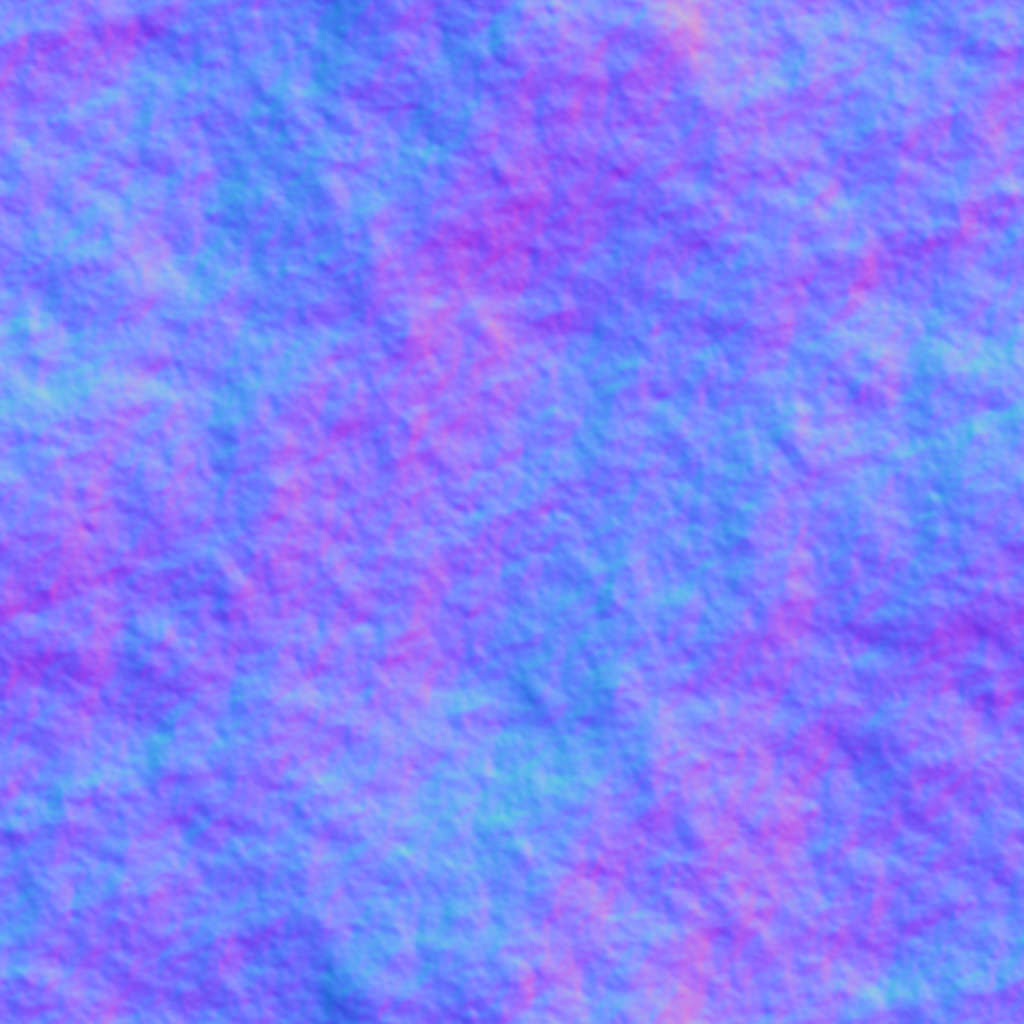
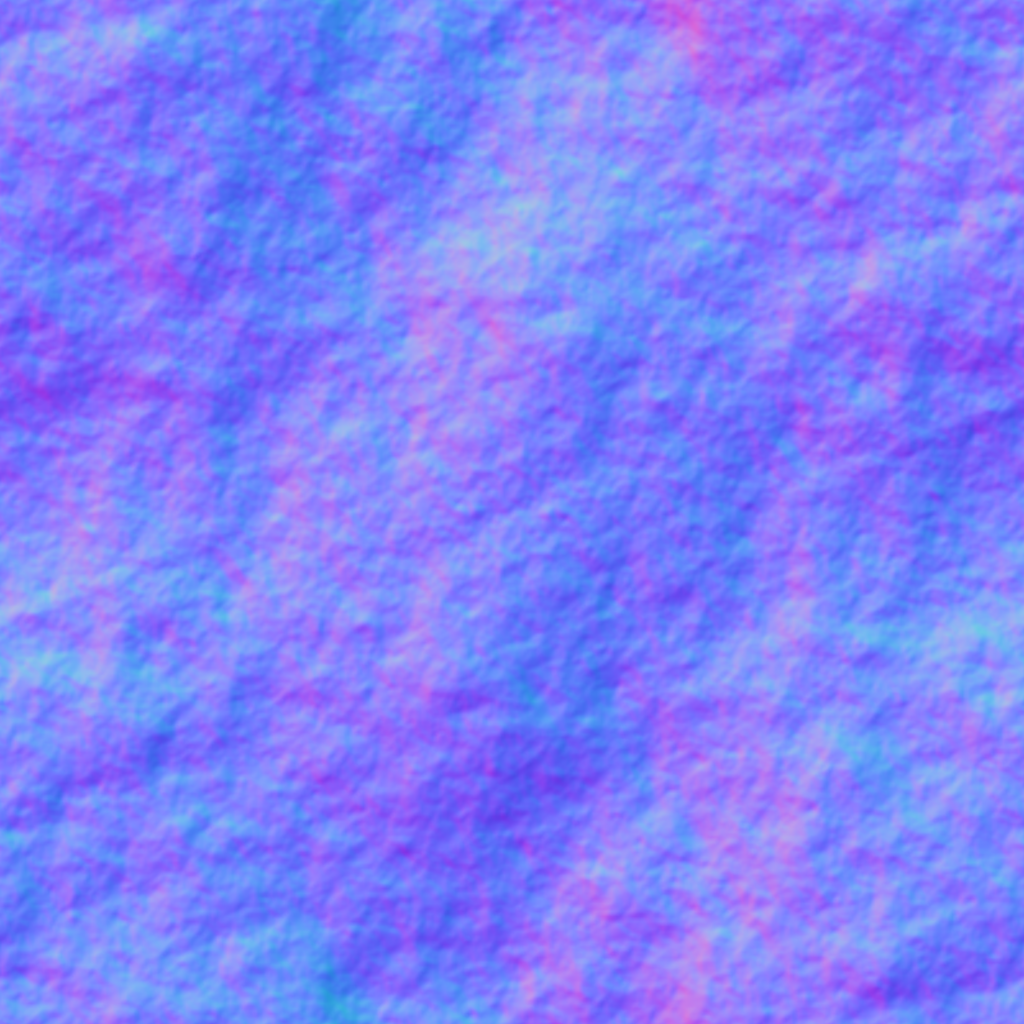
add receiving shadows to sea shader animate water shadow map

diff --git a/samples/bsp/src/GameState.cpp b/samples/bsp/src/GameState.cpp
@@ -64,9 +64,10 @@ namespace
 }
 
 GameState::GameState(cro::StateStack& stack, cro::State::Context context)
-    : cro::State(stack, context),
-    m_gameScene(context.appInstance.getMessageBus()),
-    m_uiScene(context.appInstance.getMessageBus())
+    : cro::State    (stack, context),
+    m_gameScene     (context.appInstance.getMessageBus()),
+    m_uiScene       (context.appInstance.getMessageBus()),
+    m_waterIndex    (0)
 {
     context.mainWindow.loadResources([this]() {
         addSystems();
@@ -199,13 +200,29 @@ void GameState::loadAssets()
     //m_gameScene.setCubemap(m_environmentMap);
     m_gameScene.setCubemap("assets/images/cubemap/sky.ccm");
     m_gameScene.getSunlight().getComponent<cro::Transform>().rotate(cro::Transform::X_AXIS, -cro::Util::Const::PI * 0.9f);
-    m_resources.materials.get(m_materialIDs[MaterialID::Sea]).setProperty("u_skyBox", m_gameScene.getCubemap());
 
-    m_resources.textures.load(TextureID::SeaNormal, "assets/images/water_normal.png", true);
-    auto& waterNormal = m_resources.textures.get(TextureID::SeaNormal);
-    waterNormal.setRepeated(true);
-    waterNormal.setSmooth(true);
-    m_resources.materials.get(m_materialIDs[MaterialID::Sea]).setProperty("u_normalMap", waterNormal);
+    //m_resources.textures.load(TextureID::SeaNormal, "assets/images/water_normal.png", true);
+    //auto& waterNormal = m_resources.textures.get(TextureID::SeaNormal);
+    //waterNormal.setRepeated(true);
+    //waterNormal.setSmooth(true);
+    //m_resources.materials.get(m_materialIDs[MaterialID::Sea]).setProperty("u_normalMap", waterNormal);
+
+    const std::string basePath = "assets/images/water/water (";
+    for (auto i = 0u; i < m_waterTextures.size(); ++i)
+    {
+        auto path = basePath + std::to_string((i * 3) + 1) + ").png";
+        if (!m_waterTextures[i].loadFromFile(path, true))
+        {
+            LogW << "Failed to load " << path << std::endl;
+        }
+        else
+        {
+            m_waterTextures[i].setSmooth(true);
+            m_waterTextures[i].setRepeated(true);
+
+        }
+    }
+    m_resources.materials.get(m_materialIDs[MaterialID::Sea]).setProperty("u_normalMap", m_waterTextures[m_waterIndex]);
 }
 
 void GameState::createScene()
@@ -236,8 +253,16 @@ void GameState::createScene()
         static float elapsed = dt;
         elapsed += dt;
         e.getComponent<cro::Model>().setMaterialProperty(0, "u_time", elapsed);
-
         e.getComponent<cro::Model>().setMaterialProperty(0, "u_reflectionMatrix", m_reflectionCamera.getComponent<cro::Camera>().viewProjectionMatrix);
+
+        static cro::Clock frameClock;
+        if (frameClock.elapsed().asSeconds() > 1.f / 24.f)
+        {
+            frameClock.restart();
+
+            m_waterIndex = (m_waterIndex + 1) % m_waterTextures.size();
+            e.getComponent<cro::Model>().setMaterialProperty(0, "u_normalMap", cro::TextureID(m_waterTextures[m_waterIndex].getGLHandle()));
+        }
     };
 
     //main camera
@@ -272,6 +297,9 @@ void GameState::createScene()
     entity = m_gameScene.createEntity();
     entity.addComponent<cro::Transform>().setPosition({ 0.f, 0.85f, -6.f });
     md.createModel(entity, m_resources);
+
+    md.loadFromFile("assets/models/arrow.cmt", m_resources);
+    md.createModel(m_gameScene.getSunlight(), m_resources);
 }
 
 void GameState::createUI()

diff --git a/samples/bsp/src/GameState.hpp b/samples/bsp/src/GameState.hpp
@@ -68,6 +68,9 @@ private:
     cro::RenderTexture m_reflectionBuffer;
     cro::Entity m_reflectionCamera;
 
+    std::array<cro::Texture, 40u> m_waterTextures;
+    std::size_t m_waterIndex;
+
     void addSystems();
     void loadAssets();
     void createScene();
